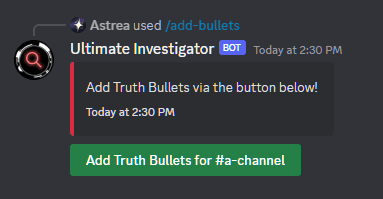
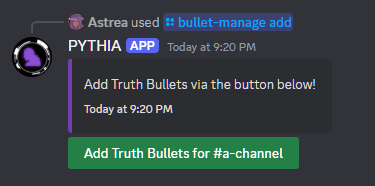
feat: image replacement and start of gacha

Changed region(s): [[0.088, 0.0538, 0.9093, 0.914], [0.0293, 0.1882, 0.1467, 0.4301]]

diff --git a/docs/setup/basic_setup.md b/docs/setup/basic_setup.md
@@ -15,7 +15,7 @@ This is the simplest step. Simply use [this invite link](https://discord.com/api
 It's worth running `/config info` first when you set up the bot. This gives you a pretty good idea about what options there are to use for the configuration (admittedly, not many):
 
 <figure markdown>
-  ![An empty server /config info.](guild_config.png)
+  ![An example of /config info.](config_info.png)
 </figure>
 
 Your priority should be _setting up the player role._ This can be done pretty easily: select the `/config player` command, _use the role option_, and use the role you wish to be able to be treated as players and discover Truth Bullets (or your RP's equivalent). It's worth noting that _no other role will be able to use them, not even admins._

diff --git a/docs/setup/investigations_setup.md b/docs/setup/investigations_setup.md
@@ -18,6 +18,13 @@ And you're technically ready! However, there are other commands worth noting:
 * `/bullet-config names` allows you to change how Truth Bullets (and the Best Finder) are named in *public-facing* messages. 
 * `/bullet-config toggle` turns on or off triggering Truth Bullets. This'll be important later.
 
+Saving the most important of the `/bullet-config` commands for last, to take a look at all of your configration settings for investigations, you can use `/bullet-config info`:
+
+<figure markdown>
+  ![An example of an investigation configuration](bullet_config.png)
+</figure>
+
+
 ## Setting Up Truth Bullets
 
 ### Adding Truth Bullets

diff --git a/docs/index.md b/docs/index.md
@@ -35,7 +35,11 @@ Guides:
 
 ## Gacha
 
-soon:tm:
+PYTHIA also supports the setup and management of a gacha system, where users can spend currency to get items. This system is entirety staff controlled, allowing as much flexibility as needed.
+
+<figure markdown>
+  ![Example of a user drawing an item from the gacha.](gacha_example.png)
+</figure>
 
 Guides:
 - [Gacha as a User](usage/gacha.md)

diff --git a/docs/setup/gacha_setup.md b/docs/setup/gacha_setup.md
@@ -4,4 +4,7 @@ description: How to set up the gacha system with PYTHIA.
 
 # Gacha Setup
 
+!!! note
+    You must invite the bot and set up the basic settings before setting up the gacha system - check [the basic setup page](basic_setup.md) for more information.
+
 soon:tm:
